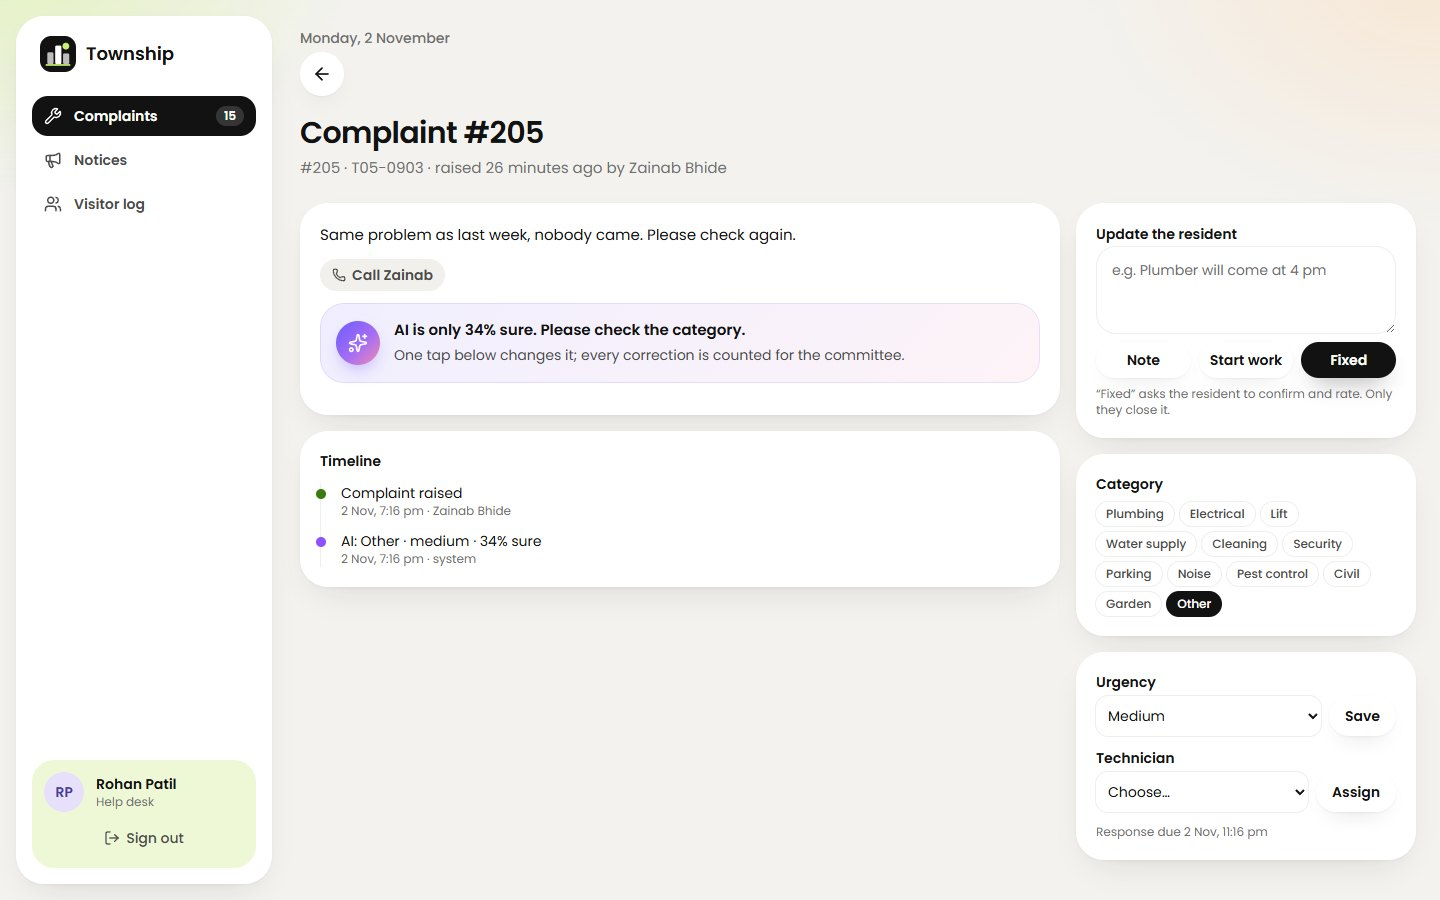
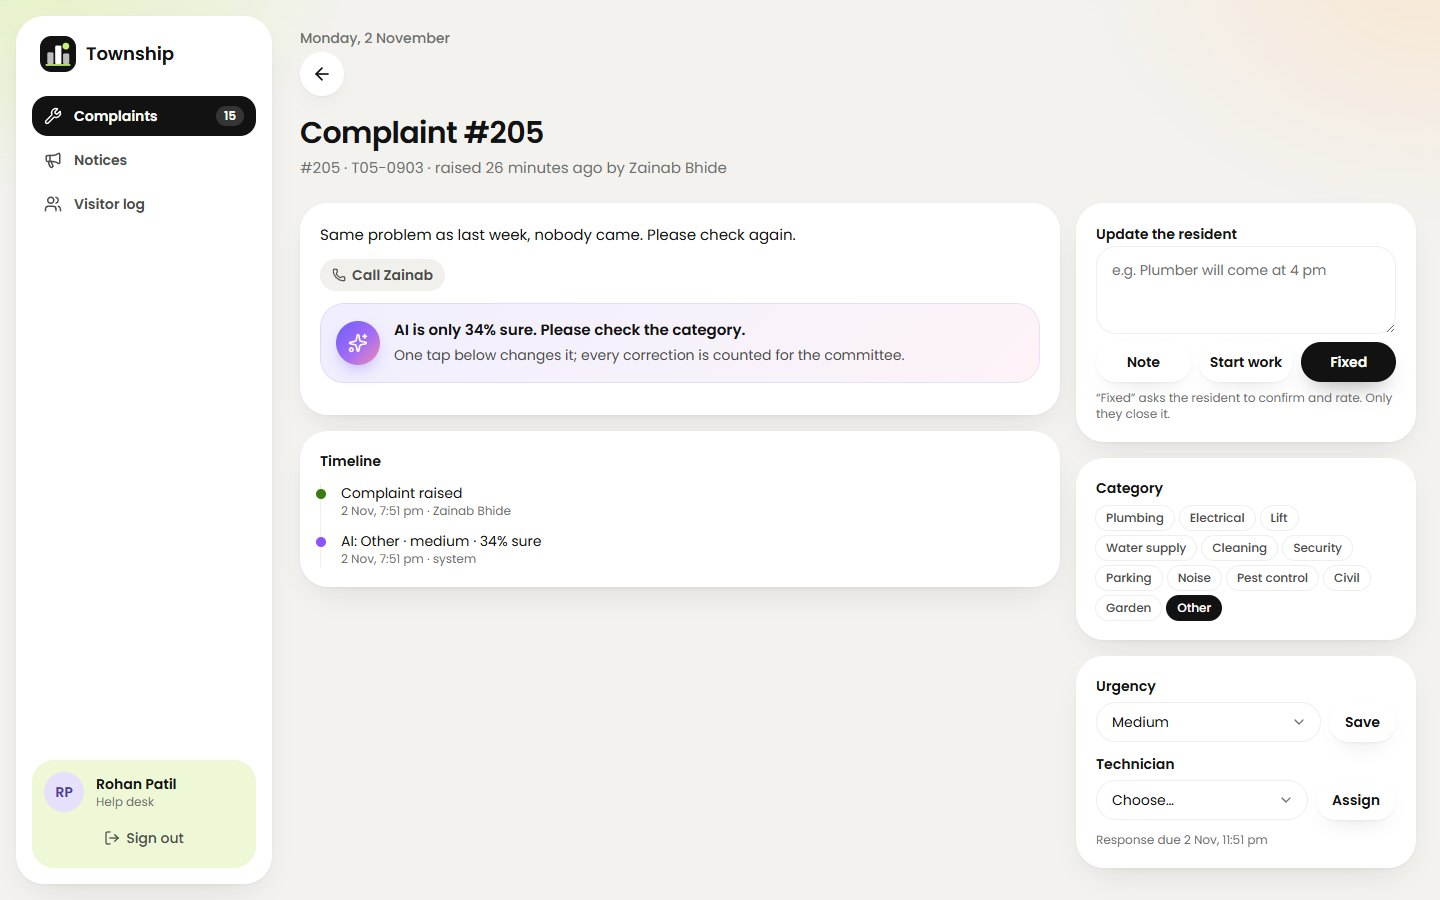
Docs: screens retaken on the polished UI; what the full-size review found

diff --git a/docs/TDD.md b/docs/TDD.md
@@ -283,9 +283,11 @@ now holds every Marathi and Hindi string to its English original: the same place
 A native speaker's read is still planned (A14).
 
 A screenshot sweep then took every role's main screens at phone, tablet and computer sizes, in light and in dark,
-and laid them side by side. It is why every role now shares one theme and one shell (section 6), and it found two
-faults, both fixed: an unreadable count on the active help-desk tab in dark mode, and a sidebar whose sign-out
-squeezed the name beside it.
+and laid them side by side, and a second pass read every page at full size. They are why every role now shares one
+theme and one shell (section 6), and they found faults, all fixed: controls in one row at four different heights,
+with the browser's own dropdown arrows (now one 40 px pill with the app's chevron); status text in dark red on dark
+cards; an unreadable count on the active help-desk tab; empty grey boxes for visitors without a photo; the
+test-payment page's Pay label turning dark on dark; and a sidebar whose sign-out squeezed the name beside it.
 
 Every screen and button was also exercised by hand for each role on phone, tablet and desktop sizes, in light and dark
 mode and in Marathi: sign-in (wrong code, change number, first-time consent), paying (failed and successful test
